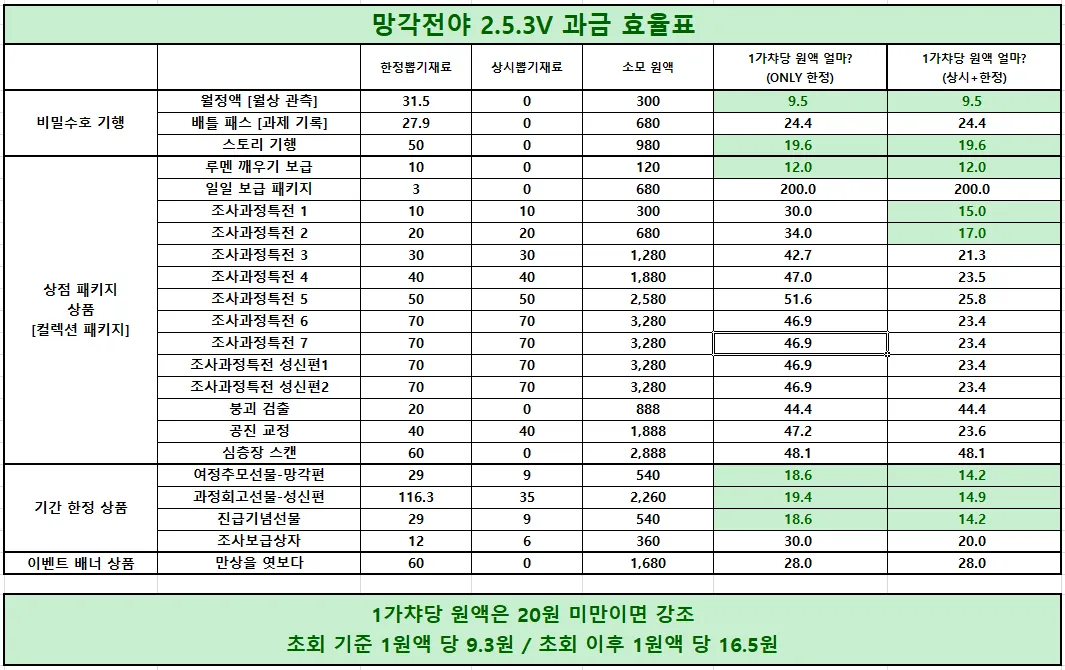
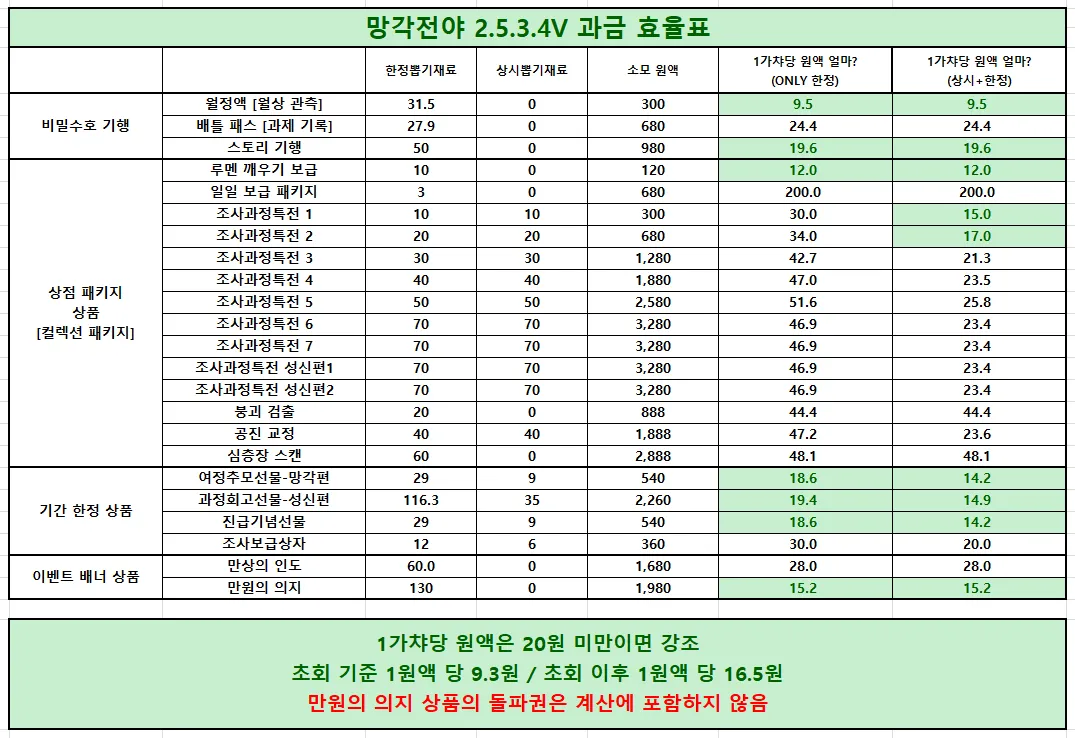
과금 효율표 이미지 갱신과 임시 파일 정리

diff --git a/css/pages/info_tools.css b/css/pages/info_tools.css
@@ -370,7 +370,7 @@
 }
 
 .payment-image-viewer {
-    width: min(100%, 1065px);
+    width: min(100%, 1075px);
     margin-inline: auto;
     overflow: hidden;
     border: 1px solid var(--color-border);
@@ -386,7 +386,7 @@
 }
 
 .payment-image-credit {
-    width: min(100%, 1065px);
+    width: min(100%, 1075px);
     margin: var(--space-2) auto 0;
     font-size: 0.85rem;
     line-height: 1.5;

diff --git a/payment_efficiency.html b/payment_efficiency.html
@@ -30,8 +30,8 @@
 
         <div class="payment-image-viewer">
             <img src="images/Payment_Efficiency.webp"
-                 width="1065"
-                 height="670"
+                 width="1075"
+                 height="738"
                  alt="망각전야 과금 효율표">
         </div>
         <p class="payment-image-credit">
